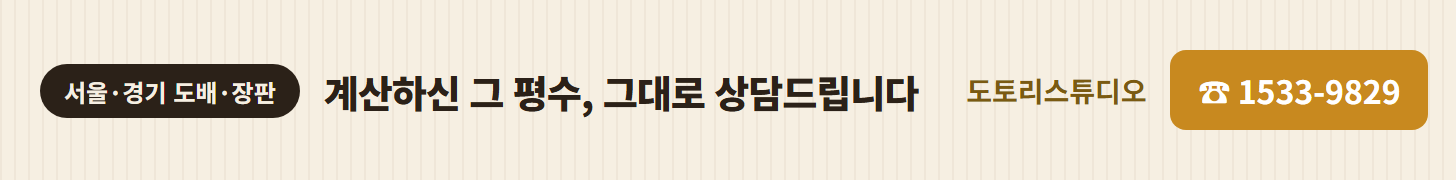
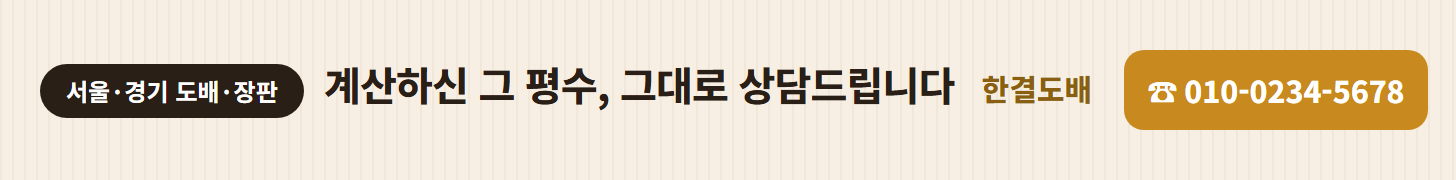
견본 광고주를 가상 업체(한결도배)로 교체: 배너 7장·캡처 2장·시험 광고주·견본 캡션
- 견본 배너 그림 7장을 한결도배 / 010-0234-5678 로 다시 만듦 (scripts/sponsor-banners 에 생성 스크립트)
- 실제 자리 캡처 loc-home-h·loc-blog-end 를 새 배너로 다시 촬영(좌표 동일)
- seed-test-ad.mjs 에 --update 모드 추가, 시험 광고주 이름을 한결도배(시험)으로
- /sponsor 견본 구획에 '견본(가상 업체)' 표기

Changed region(s): [[0.0309, 0.2778, 0.989, 0.7222], [0.9581, 0.2778, 0.989, 0.3056]]

diff --git a/scripts/sponsor-banners/banners.html b/scripts/sponsor-banners/banners.html
@@ -1,0 +1,111 @@
+<!doctype html>
+<html lang="ko">
+<head>
+<meta charset="utf-8">
+<!-- 광고 견본 배너 7장 원본 (make-banners.mjs 가 이 파일을 열어 장마다 캡처한다) -->
+<!-- 1배 크기(320x100 등)로 그려 두고 zoom:2 로 2배(640x200) PNG 를 뽑는다. 상호·전화는 make-banners.mjs 상단 상수가 채운다 -->
+<style>
+  /* 글꼴: 윈도우에 깔린 노토 산스 KR(가변 글꼴) */
+  @font-face { font-family: 'NotoKR'; src: url('file:///C:/Windows/Fonts/NotoSansKR-VF.ttf'); font-weight: 100 900; }
+  :root { --cream:#f7efe3; --ink:#2a1f17; --gold:#c88a1f; --goldtxt:#8a5f12; --sub:#6b5a4a; --wood:#7a5233; }
+  html, body { margin: 0; padding: 0; background: #fff; }
+  * { box-sizing: border-box; font-family: 'NotoKR', 'Noto Sans KR', 'Malgun Gothic', sans-serif; }
+  /* 배너 공통 틀: 1배 크기, 2배 확대 */
+  .b { position: relative; overflow: hidden; zoom: 2; display: none; }
+  .b.on { display: block; }
+  /* 밝은 바탕: 크림색 + 가는 세로줄(도배지 느낌) */
+  .light { background: var(--cream) repeating-linear-gradient(90deg, rgba(120,90,50,.05) 0 1px, transparent 1px 6px); }
+  /* 어두운 바탕: 마루 널 느낌의 갈색 */
+  .dark { background:
+      linear-gradient(90deg, transparent 0 18%, rgba(255,255,255,.05) 18% 42%, transparent 42% 64%, rgba(0,0,0,.12) 64% 88%, transparent 88%),
+      var(--wood); }
+  .abs { position: absolute; white-space: nowrap; }
+  /* 알약 꼬리표 */
+  .pill { position: absolute; background: var(--ink); color: #fff; font-weight: 700; border-radius: 99px; text-align: center; white-space: nowrap; }
+  .pill.cr { background: var(--cream); color: var(--ink); }
+  /* 전화 단추 */
+  .btn { position: absolute; background: var(--gold); color: #fff; font-weight: 800; border-radius: 10px; text-align: center; display: flex; align-items: center; justify-content: center; white-space: nowrap; }
+  .ttl { font-weight: 800; color: var(--ink); line-height: 1.3; letter-spacing: -.02em; }
+  .name { font-weight: 800; color: var(--goldtxt); }
+
+  /* 1 AD-H 휴대폰 320x100 */
+  #h { width: 320px; height: 100px; }
+  #h .pill { left: 14px; top: 14px; height: 20px; line-height: 20px; padding: 0 10px; font-size: 11px; }
+  #h .ttl { left: 14px; top: 42px; font-size: 18px; line-height: 23px; }
+  #h .name { right: 14px; top: 18px; font-size: 13px; }
+  #h .btn { right: 12px; top: 45px; width: 130px; height: 39px; font-size: 13px; }
+  /* 2 AD-H PC 728x90 */
+  #hpc { width: 728px; height: 90px; }
+  #hpc .pill { left: 20px; top: 32px; height: 27px; line-height: 27px; padding: 0 13px; font-size: 12px; }
+  #hpc .ttl { left: 162px; top: 29px; font-size: 20px; }
+  #hpc .name { right: 182px; top: 33px; font-size: 15px; }
+  #hpc .btn { right: 14px; top: 25px; width: 152px; height: 40px; font-size: 15px; }
+  /* 3 AD-R 300x250 */
+  #r { width: 300px; height: 250px; }
+  #r .pill { left: 16px; top: 16px; height: 23px; line-height: 23px; padding: 0 9px; font-size: 12px; }
+  #r .ttl { left: 16px; top: 48px; font-size: 24px; line-height: 32px; }
+  #r .sub { left: 16px; top: 122px; font-size: 13px; line-height: 18px; color: var(--sub); font-weight: 500; }
+  #r .band { position: absolute; left: 0; right: 0; bottom: 0; height: 74px; }
+  #r .nm { left: 16px; top: 190px; color: #fff; font-size: 17px; font-weight: 800; }
+  #r .nm2 { left: 16px; top: 217px; color: #ecdcc8; font-size: 11px; font-weight: 500; }
+  #r .btn { right: 16px; top: 194px; width: 130px; height: 39px; font-size: 13px; }
+  /* 4 AD-P / 5 AD-T / 6 AD-F 휴대폰 320x50 */
+  #p, #t, #f { width: 320px; height: 50px; }
+  #p .pill, #t .pill { left: 12px; top: 14px; height: 22px; line-height: 22px; padding: 0 9px; font-size: 11px; }
+  #p .ttl, #t .ttl { left: 58px; top: 14px; font-size: 15px; line-height: 22px; width: 128px; overflow: hidden; text-overflow: ellipsis; }
+  #t .ttl { left: 66px; color: #fff; width: auto; overflow: visible; }
+  #p .btn, #t .btn, #f .btn { right: 12px; top: 10px; width: 124px; height: 31px; font-size: 12px; border-radius: 8px; }
+  #f .ttl { left: 14px; top: 8px; font-size: 16px; line-height: 20px; }
+  #f .sub { left: 14px; top: 29px; font-size: 11px; color: var(--sub); font-weight: 500; }
+  /* 7 AD-F PC 728x90 */
+  #fpc { width: 728px; height: 90px; }
+  #fpc .ttl { left: 20px; top: 22px; font-size: 22px; line-height: 28px; }
+  #fpc .sub { left: 20px; top: 54px; font-size: 13px; color: var(--sub); font-weight: 500; }
+  #fpc .btn { right: 14px; top: 25px; width: 152px; height: 40px; font-size: 15px; }
+</style>
+</head>
+<body>
+<!-- data-fill: name=상호, phone=전화 (make-banners.mjs 가 채움) -->
+<div class="b light" id="h">
+  <div class="pill">서울·경기 도배·장판</div>
+  <div class="abs ttl">계산하신 그 평수,<br>그대로 상담드립니다</div>
+  <div class="abs name" data-fill="name"></div>
+  <div class="btn">☎&nbsp;<span data-fill="phone"></span></div>
+</div>
+<div class="b light" id="hpc">
+  <div class="pill">서울·경기 도배·장판</div>
+  <div class="abs ttl">계산하신 그 평수, 그대로 상담드립니다</div>
+  <div class="abs name" data-fill="name"></div>
+  <div class="btn">☎&nbsp;<span data-fill="phone"></span></div>
+</div>
+<div class="b light" id="r">
+  <div class="pill">도배 · 장판 · 마루</div>
+  <div class="abs ttl">방금 본 견적,<br>실측으로 확정하세요</div>
+  <div class="abs sub">벽지·장판 종류별 실제 단가로<br>평수 그대로 다시 계산해 드립니다</div>
+  <div class="band dark"></div>
+  <div class="abs nm" data-fill="name"></div>
+  <div class="abs nm2">서울·경기 시공</div>
+  <div class="btn">☎&nbsp;<span data-fill="phone"></span></div>
+</div>
+<div class="b light" id="p">
+  <div class="pill">도배</div>
+  <div class="abs ttl">도배 실측 상담</div>
+  <div class="btn">☎&nbsp;<span data-fill="phone"></span></div>
+</div>
+<div class="b dark" id="t">
+  <div class="pill cr">올수리</div>
+  <div class="abs ttl">올수리 실측 상담</div>
+  <div class="btn">☎&nbsp;<span data-fill="phone"></span></div>
+</div>
+<div class="b light" id="f">
+  <div class="abs ttl" data-fill="name"></div>
+  <div class="abs sub">서울·경기 · 무료 실측</div>
+  <div class="btn">☎&nbsp;<span data-fill="phone"></span></div>
+</div>
+<div class="b light" id="fpc">
+  <div class="abs ttl" data-fill="name"></div>
+  <div class="abs sub">서울·경기 · 무료 실측</div>
+  <div class="btn">☎&nbsp;<span data-fill="phone"></span></div>
+</div>
+</body>
+</html>

diff --git a/src/app/sponsor/page.tsx b/src/app/sponsor/page.tsx
@@ -286,7 +286,7 @@ export default async function SponsorPage() {
                 {/* 배너 실물 — 카드 폭 전체를 써서 PC 728×90 도 실제 크기로 들어간다(좁은 화면에선 비율 유지하며 줄어듦) */}
                 {!slot.mockup && (
                   <div className="mt-5 pt-5 border-t border-brown/10">
-                    <p className="text-[10px] text-gray-400 mb-2">배너 실물 · 실제 크기</p>
+                    <p className="text-[10px] text-gray-400 mb-2">배너 실물 · 실제 크기 · 견본(가상 업체)</p>
                     <SlotBanners kind={slot.id} />
                   </div>
                 )}
@@ -330,7 +330,7 @@ export default async function SponsorPage() {
       <section id="samples" className="py-16 px-4">
         <div className="max-w-5xl mx-auto">
           <h2 className="text-2xl font-bold text-brown text-center mb-2">배너 예시</h2>
-          <p className="text-sm text-gray-400 text-center mb-8">이 정도 수준으로 만들어 드려요</p>
+          <p className="text-sm text-gray-400 text-center mb-8">견본(가상 업체) · 이 정도 수준으로 만들어 드려요</p>
           <div className="flex flex-wrap justify-center gap-x-8 gap-y-6">
             {BANNER_SAMPLES.map((b) => (
               <figure key={b.src} className="flex flex-col items-center">
